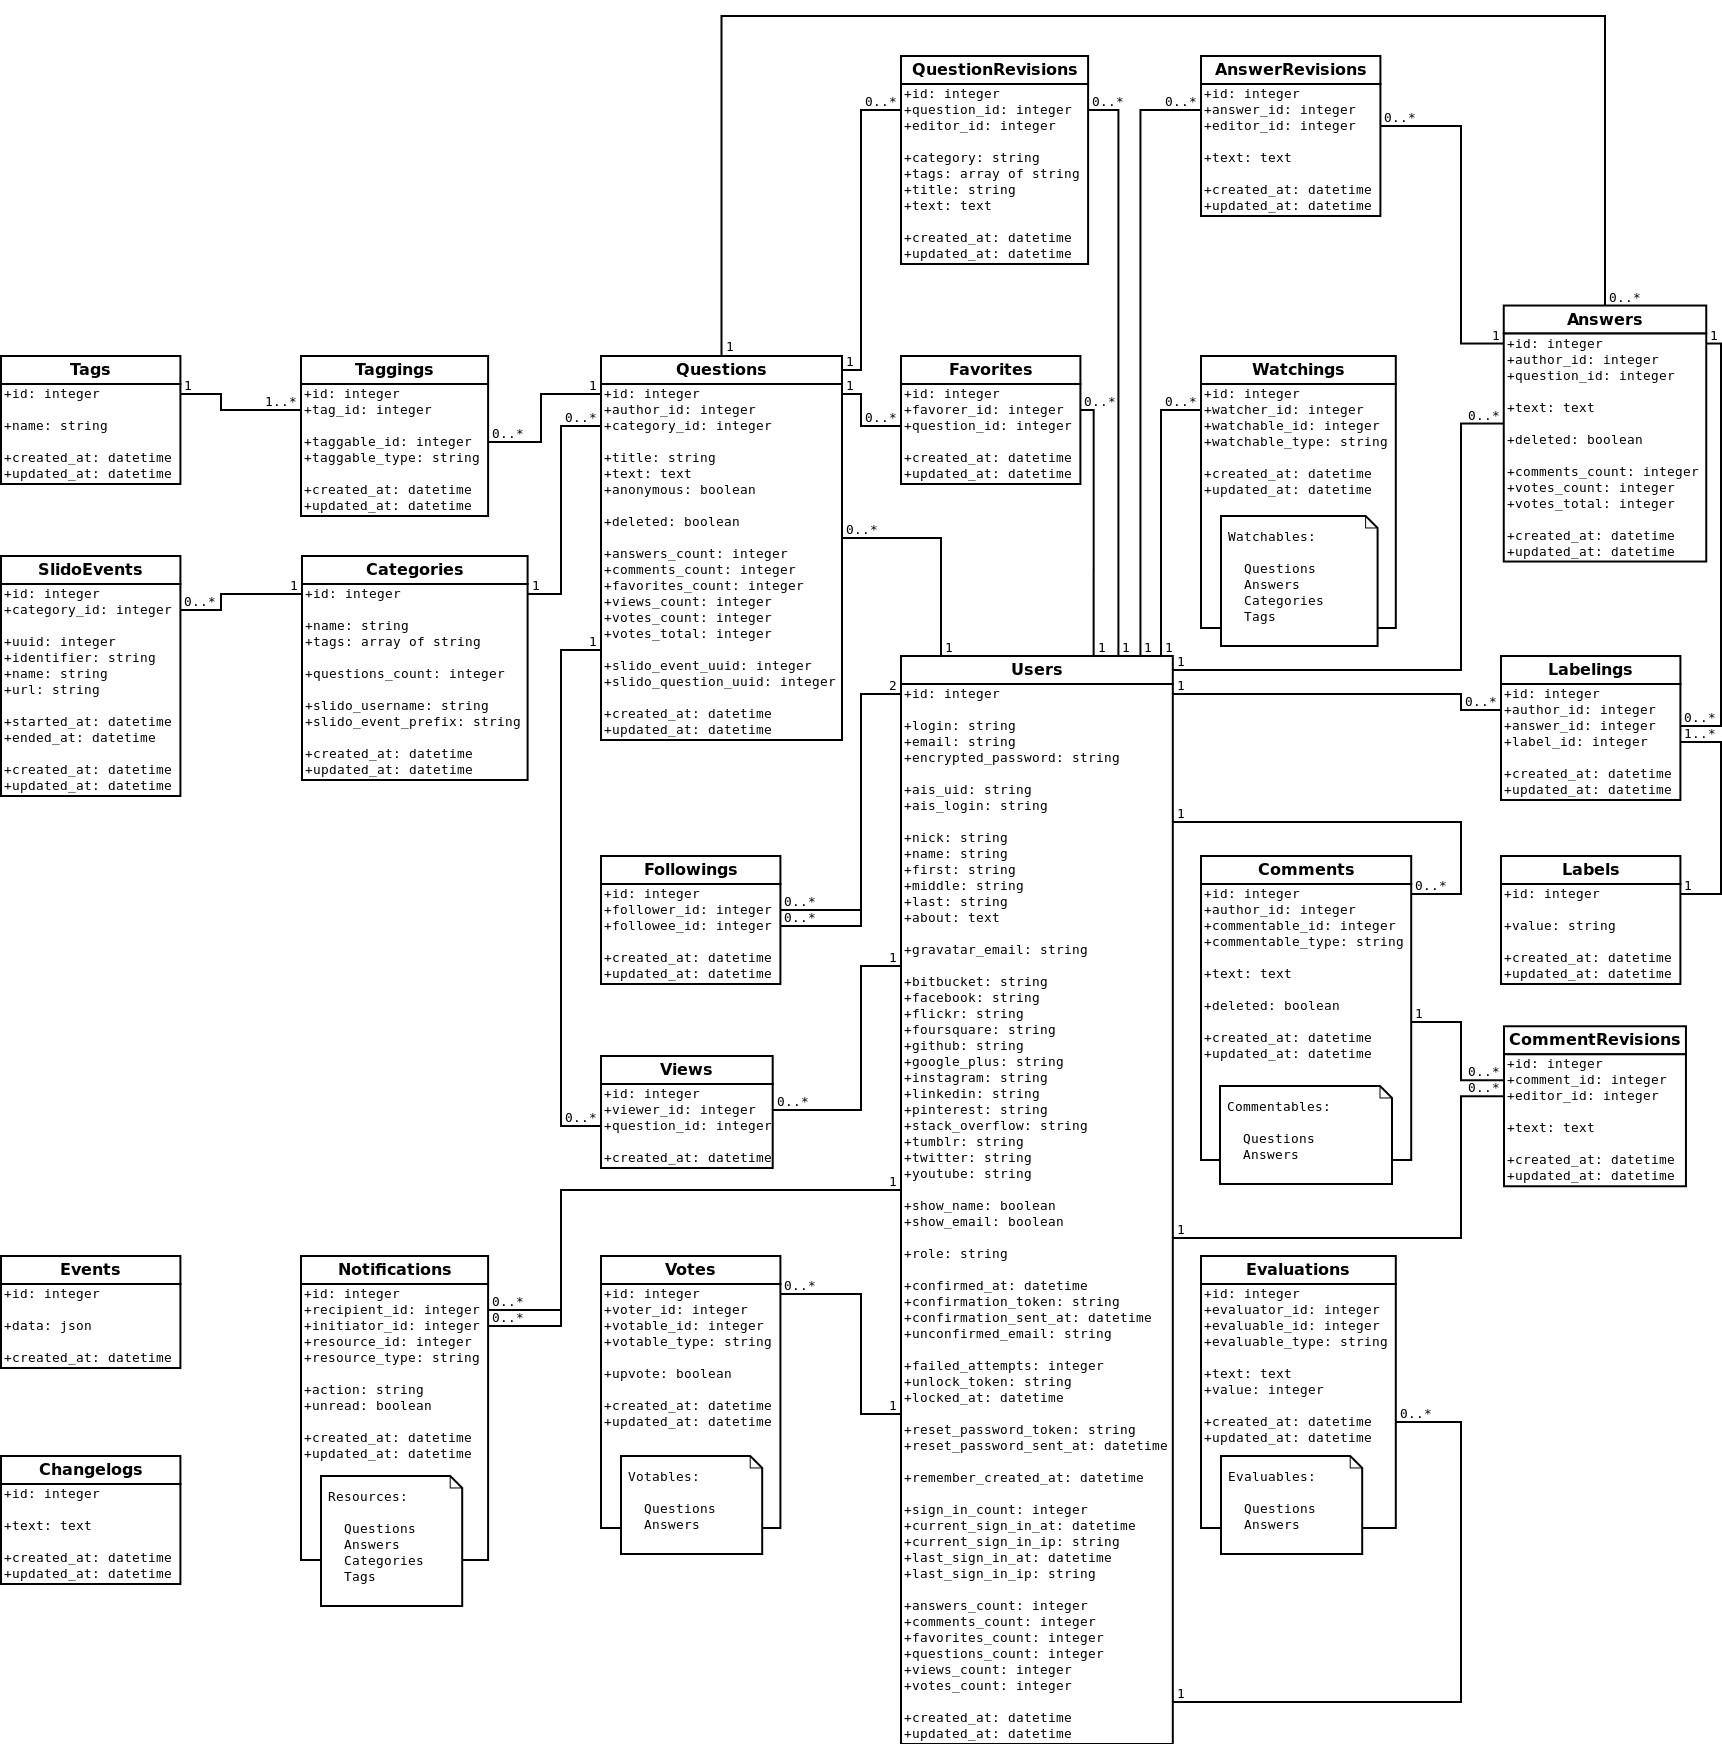
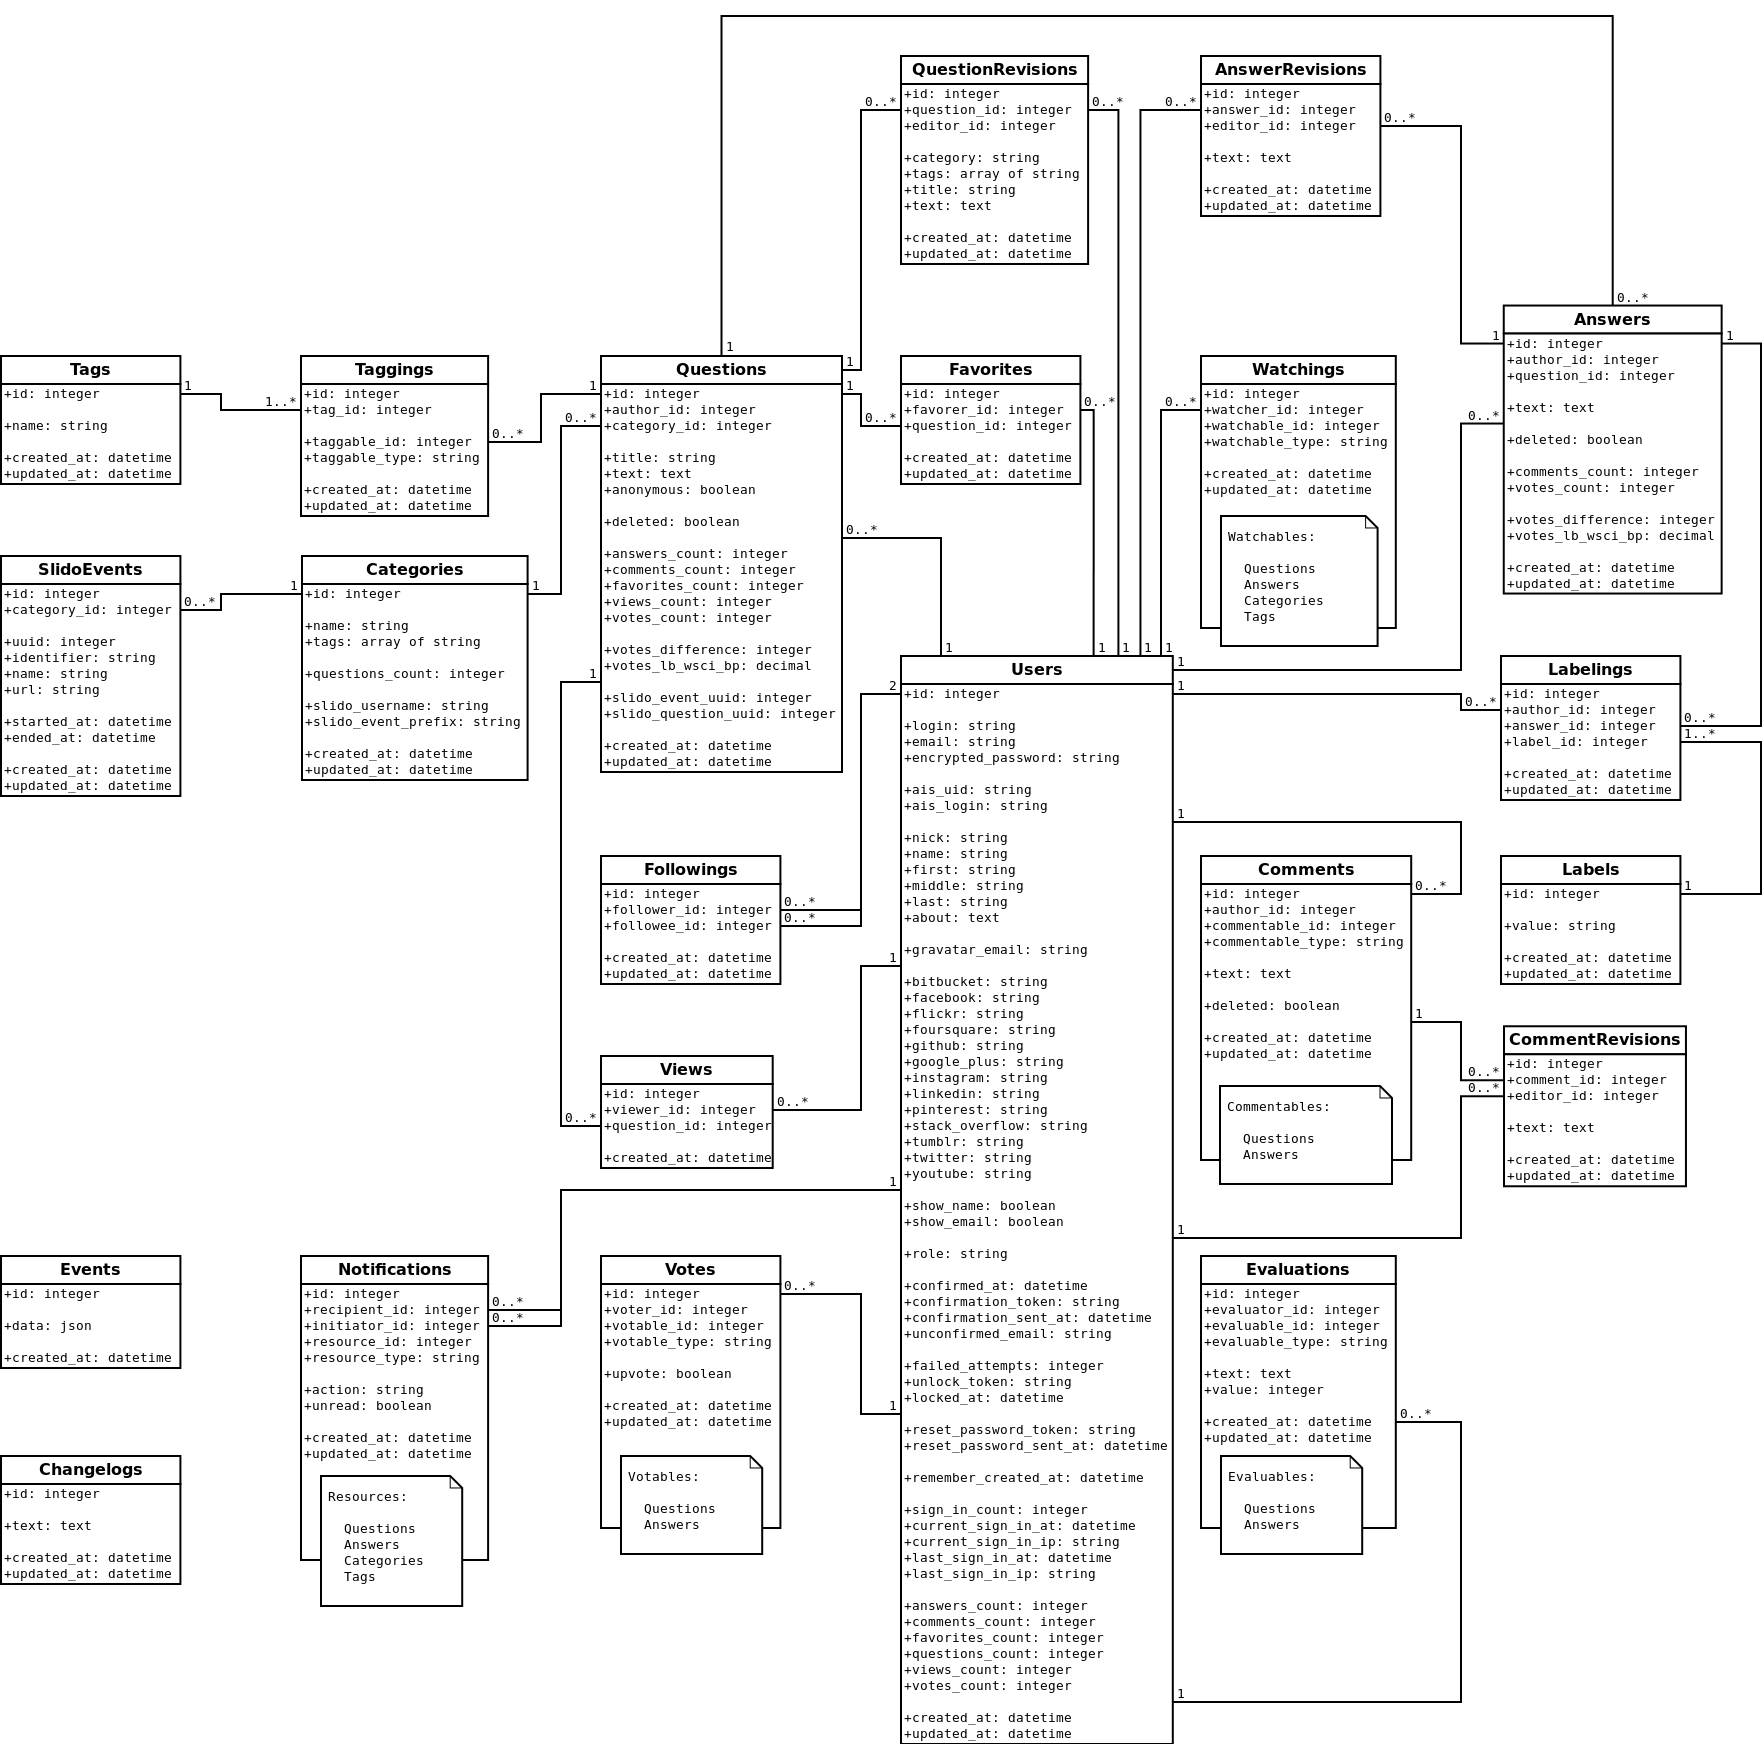
Update DB schema

diff --git a/db/schema.rb b/db/schema.rb
@@ -11,7 +11,7 @@
 #
 # It's strongly recommended that you check this file into your version control system.
 
-ActiveRecord::Schema.define(version: 20140226112332) do
+ActiveRecord::Schema.define(version: 20140227095502) do
 
   # These are extensions that must be enabled in order to support this database
   enable_extension "plpgsql"
@@ -28,21 +28,23 @@ ActiveRecord::Schema.define(version: 20140226112332) do
   add_index "answer_revisions", ["editor_id"], name: "index_answer_revisions_on_editor_id", using: :btree
 
   create_table "answers", force: true do |t|
-    t.integer  "author_id",                      null: false
-    t.integer  "question_id",                    null: false
-    t.text     "text",                           null: false
+    t.integer  "author_id",                                                  null: false
+    t.integer  "question_id",                                                null: false
+    t.text     "text",                                                       null: false
     t.datetime "created_at"
     t.datetime "updated_at"
-    t.integer  "votes_total",    default: 0,     null: false
-    t.integer  "comments_count", default: 0,     null: false
-    t.integer  "votes_count",    default: 0,     null: false
-    t.boolean  "deleted",        default: false, null: false
+    t.integer  "votes_difference",                           default: 0,     null: false
+    t.integer  "comments_count",                             default: 0,     null: false
+    t.integer  "votes_count",                                default: 0,     null: false
+    t.boolean  "deleted",                                    default: false, null: false
+    t.decimal  "votes_lb_wsci_bp", precision: 13, scale: 12, default: 0.0,   null: false
   end
 
   add_index "answers", ["author_id"], name: "index_answers_on_author_id", using: :btree
   add_index "answers", ["deleted"], name: "index_answers_on_deleted", using: :btree
   add_index "answers", ["question_id"], name: "index_answers_on_question_id", using: :btree
-  add_index "answers", ["votes_total"], name: "index_answers_on_votes_total", using: :btree
+  add_index "answers", ["votes_difference"], name: "index_answers_on_votes_difference", using: :btree
+  add_index "answers", ["votes_lb_wsci_bp"], name: "index_answers_on_votes_lb_wsci_bp", using: :btree
 
   create_table "categories", force: true do |t|
     t.string   "name",                            null: false
@@ -186,22 +188,23 @@ ActiveRecord::Schema.define(version: 20140226112332) do
   add_index "question_revisions", ["question_id"], name: "index_question_revisions_on_question_id", using: :btree
 
   create_table "questions", force: true do |t|
-    t.integer  "author_id",                           null: false
-    t.integer  "category_id",                         null: false
-    t.string   "title",                               null: false
-    t.text     "text",                                null: false
+    t.integer  "author_id",                                                     null: false
+    t.integer  "category_id",                                                   null: false
+    t.string   "title",                                                         null: false
+    t.text     "text",                                                          null: false
     t.datetime "created_at"
     t.datetime "updated_at"
-    t.integer  "votes_total",         default: 0,     null: false
-    t.boolean  "anonymous",           default: false, null: false
-    t.integer  "answers_count",       default: 0,     null: false
-    t.integer  "comments_count",      default: 0,     null: false
-    t.integer  "favorites_count",     default: 0,     null: false
-    t.integer  "views_count",         default: 0,     null: false
-    t.integer  "votes_count",         default: 0,     null: false
+    t.integer  "votes_difference",                              default: 0,     null: false
+    t.boolean  "anonymous",                                     default: false, null: false
+    t.integer  "answers_count",                                 default: 0,     null: false
+    t.integer  "comments_count",                                default: 0,     null: false
+    t.integer  "favorites_count",                               default: 0,     null: false
+    t.integer  "views_count",                                   default: 0,     null: false
+    t.integer  "votes_count",                                   default: 0,     null: false
     t.integer  "slido_question_uuid"
     t.integer  "slido_event_uuid"
-    t.boolean  "deleted",             default: false, null: false
+    t.boolean  "deleted",                                       default: false, null: false
+    t.decimal  "votes_lb_wsci_bp",    precision: 13, scale: 12, default: 0.0,   null: false
   end
 
   add_index "questions", ["author_id"], name: "index_questions_on_author_id", using: :btree
@@ -209,7 +212,8 @@ ActiveRecord::Schema.define(version: 20140226112332) do
   add_index "questions", ["deleted"], name: "index_questions_on_deleted", using: :btree
   add_index "questions", ["slido_question_uuid"], name: "index_questions_on_slido_question_uuid", unique: true, using: :btree
   add_index "questions", ["title"], name: "index_questions_on_title", using: :btree
-  add_index "questions", ["votes_total"], name: "index_questions_on_votes_total", using: :btree
+  add_index "questions", ["votes_difference"], name: "index_questions_on_votes_difference", using: :btree
+  add_index "questions", ["votes_lb_wsci_bp"], name: "index_questions_on_votes_lb_wsci_bp", using: :btree
 
   create_table "slido_events", force: true do |t|
     t.integer  "category_id", null: false
